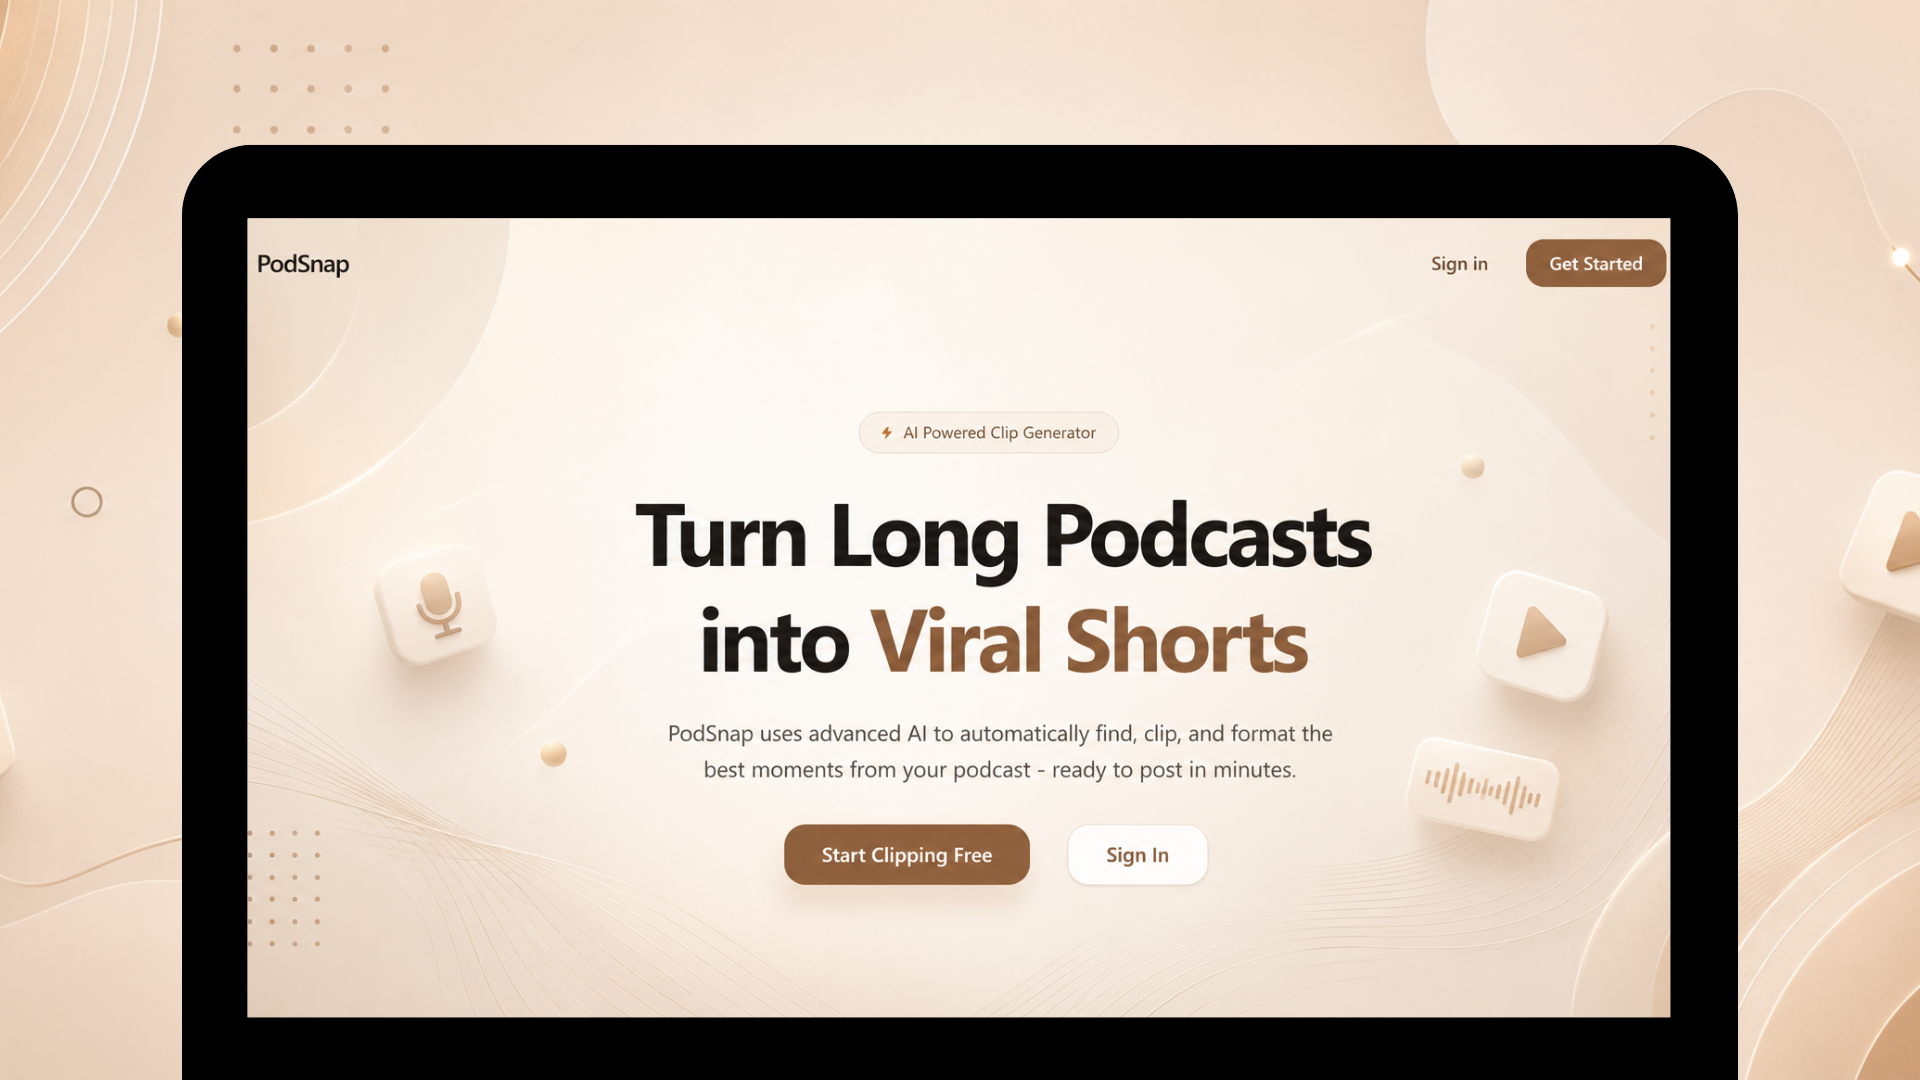
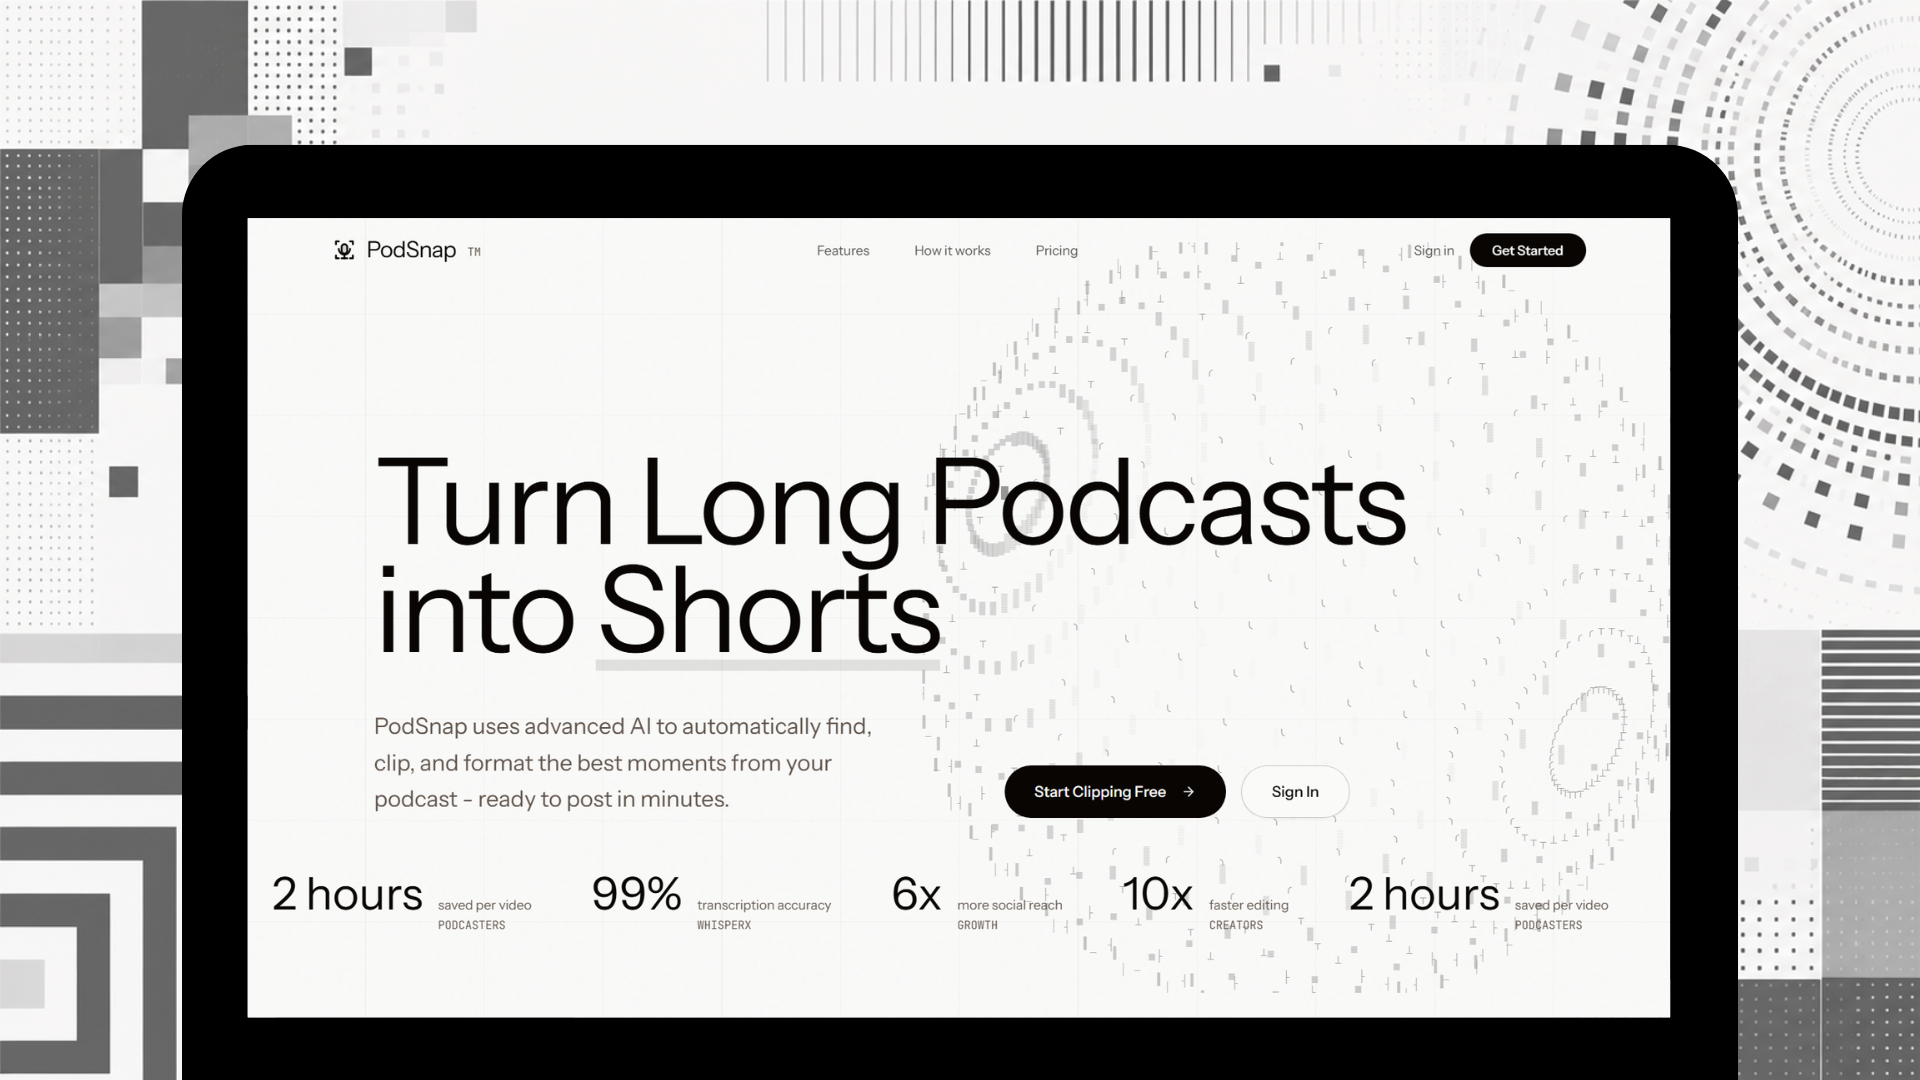
project data updated

diff --git a/src/utils/projectsData.ts b/src/utils/projectsData.ts
@@ -97,13 +97,11 @@ export const projects: Project[] = [
     gallery: [
       "/assets/projects/podsnap/podsnap-1.png",
       "/assets/projects/podsnap/podsnap-2.png",
-      "/assets/projects/podsnap/podsnap-3.png",
-      "/assets/projects/podsnap/podsnap-4.png",
     ],
 
     github: "https://github.com/ankit9241/PodSnap",
-    live: "#",
-    isPublished: false,
+    live: "https://pod-snap.netlify.app/",
+    isPublished: true,
 
     tech: [
       technologies.nextjs,
@@ -132,7 +130,7 @@ export const projects: Project[] = [
     ],
 
     links: [
-      { label: "Live Demo", href: "#" },
+      { label: "Live Demo", href: "https://pod-snap.netlify.app/" },
       { label: "Source Code", href: "https://github.com/ankit9241/PodSnap" },
     ],
 
